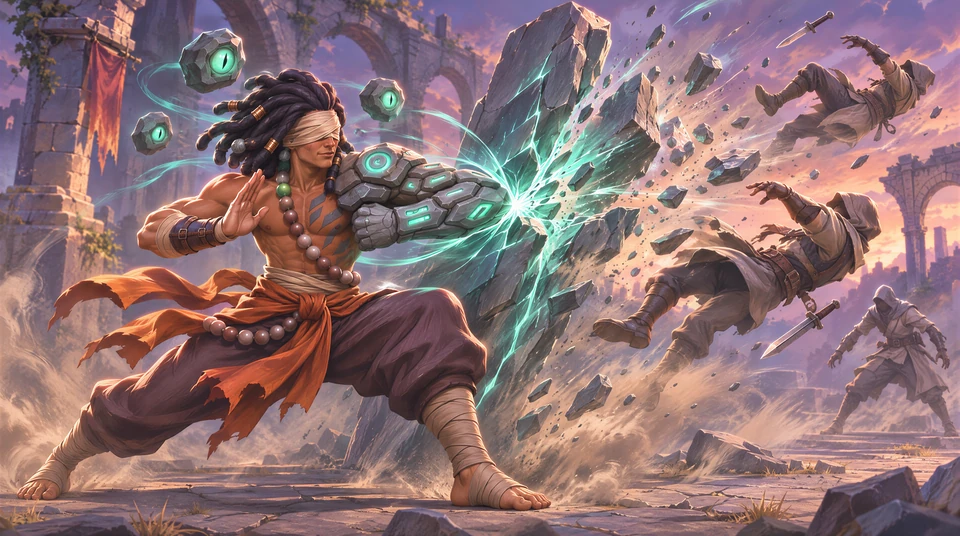
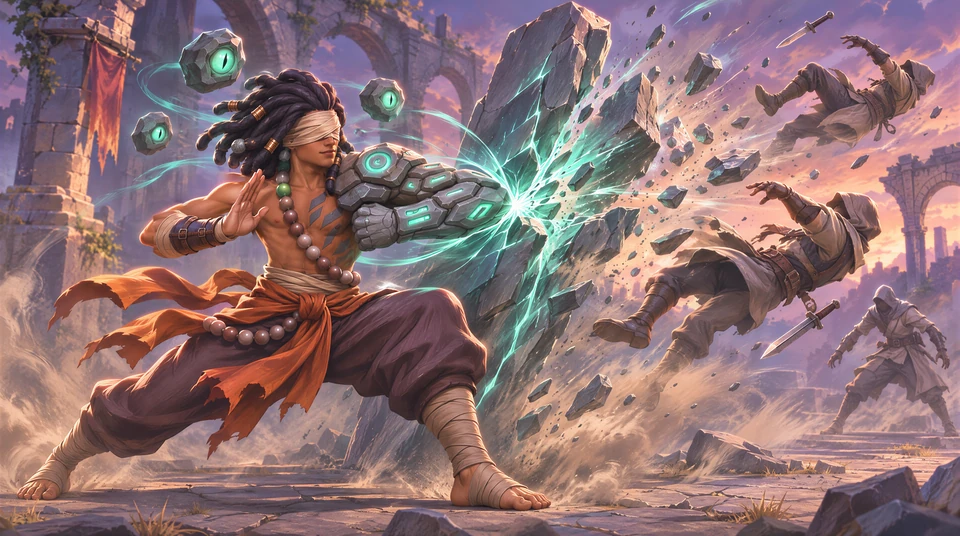
Tenzo splash: younger leaner body (owner pick A, 11-15)
Claude-Session: https://claude.ai/code/session_01Fa986kEoxoUbsf7VZzVwQa

Changed region(s): [[0.125, 0.3284, 0.25, 0.4776], [0.2812, 0.2687, 0.375, 0.3881], [0.25, 0.4179, 0.3438, 0.4776]]

diff --git a/presskit.html b/presskit.html
@@ -101,19 +101,19 @@
         </div>
         <h2>Hunter art</h2>
         <div class="pk-grid">
-          <a href="assets/img/hunters/lisette-2400.webp?v=2026-11-15e45" target="_blank"><img src="assets/img/hunters/lisette-960.webp?v=2026-11-15e45" alt="Lace splash art" loading="lazy"><span class="pk-cap">Lace</span></a>
-          <a href="assets/img/hunters/breaker-2400.webp?v=2026-11-15e45" target="_blank"><img src="assets/img/hunters/breaker-960.webp?v=2026-11-15e45" alt="Albert splash art" loading="lazy"><span class="pk-cap">Albert</span></a>
-          <a href="assets/img/hunters/vex-2400.webp?v=2026-11-15e45" target="_blank"><img src="assets/img/hunters/vex-960.webp?v=2026-11-15e45" alt="Vex splash art" loading="lazy"><span class="pk-cap">Vex</span></a>
-          <a href="assets/img/hunters/kael-2400.webp?v=2026-11-15e45" target="_blank"><img src="assets/img/hunters/kael-960.webp?v=2026-11-15e45" alt="Kael splash art" loading="lazy"><span class="pk-cap">Kael</span></a>
-          <a href="assets/img/hunters/claire-2400.webp?v=2026-11-15e45" target="_blank"><img src="assets/img/hunters/claire-960.webp?v=2026-11-15e45" alt="Neve splash art" loading="lazy"><span class="pk-cap">Neve</span></a>
-          <a href="assets/img/hunters/cinder-2400.webp?v=2026-11-15e45" target="_blank"><img src="assets/img/hunters/cinder-960.webp?v=2026-11-15e45" alt="Cinder splash art" loading="lazy"><span class="pk-cap">Cinder</span></a>
-          <a href="assets/img/hunters/tarek-2400.webp?v=2026-11-15e45" target="_blank"><img src="assets/img/hunters/tarek-960.webp?v=2026-11-15e45" alt="Tenzo splash art" loading="lazy"><span class="pk-cap">Tenzo</span></a>
-          <a href="assets/img/hunters/ryzz-2400.webp?v=2026-11-15e45" target="_blank"><img src="assets/img/hunters/ryzz-960.webp?v=2026-11-15e45" alt="Sparkle splash art" loading="lazy"><span class="pk-cap">Sparkle</span></a>
-          <a href="assets/img/hunters/grimble-2400.webp?v=2026-11-15e45" target="_blank"><img src="assets/img/hunters/grimble-960.webp?v=2026-11-15e45" alt="Grimble splash art" loading="lazy"><span class="pk-cap">Grimble</span></a>
-          <a href="assets/img/hunters/pip-2400.webp?v=2026-11-15e45" target="_blank"><img src="assets/img/hunters/pip-960.webp?v=2026-11-15e45" alt="Meeko splash art" loading="lazy"><span class="pk-cap">Meeko</span></a>
-          <a href="assets/img/hunters/sable-2400.webp?v=2026-11-15e45" target="_blank"><img src="assets/img/hunters/sable-960.webp?v=2026-11-15e45" alt="Sable splash art" loading="lazy"><span class="pk-cap">Sable</span></a>
-          <a href="assets/img/hunters/gill-2400.webp?v=2026-11-15e45" target="_blank"><img src="assets/img/hunters/gill-960.webp?v=2026-11-15e45" alt="Gill splash art" loading="lazy"><span class="pk-cap">Gill</span></a>
-          <a href="assets/img/hunters/motley-2400.webp?v=2026-11-15e45" target="_blank"><img src="assets/img/hunters/motley-960.webp?v=2026-11-15e45" alt="Motley splash art" loading="lazy"><span class="pk-cap">Motley</span></a>
+          <a href="assets/img/hunters/lisette-2400.webp?v=2026-11-15f15" target="_blank"><img src="assets/img/hunters/lisette-960.webp?v=2026-11-15f15" alt="Lace splash art" loading="lazy"><span class="pk-cap">Lace</span></a>
+          <a href="assets/img/hunters/breaker-2400.webp?v=2026-11-15f15" target="_blank"><img src="assets/img/hunters/breaker-960.webp?v=2026-11-15f15" alt="Albert splash art" loading="lazy"><span class="pk-cap">Albert</span></a>
+          <a href="assets/img/hunters/vex-2400.webp?v=2026-11-15f15" target="_blank"><img src="assets/img/hunters/vex-960.webp?v=2026-11-15f15" alt="Vex splash art" loading="lazy"><span class="pk-cap">Vex</span></a>
+          <a href="assets/img/hunters/kael-2400.webp?v=2026-11-15f15" target="_blank"><img src="assets/img/hunters/kael-960.webp?v=2026-11-15f15" alt="Kael splash art" loading="lazy"><span class="pk-cap">Kael</span></a>
+          <a href="assets/img/hunters/claire-2400.webp?v=2026-11-15f15" target="_blank"><img src="assets/img/hunters/claire-960.webp?v=2026-11-15f15" alt="Neve splash art" loading="lazy"><span class="pk-cap">Neve</span></a>
+          <a href="assets/img/hunters/cinder-2400.webp?v=2026-11-15f15" target="_blank"><img src="assets/img/hunters/cinder-960.webp?v=2026-11-15f15" alt="Cinder splash art" loading="lazy"><span class="pk-cap">Cinder</span></a>
+          <a href="assets/img/hunters/tarek-2400.webp?v=2026-11-15f15" target="_blank"><img src="assets/img/hunters/tarek-960.webp?v=2026-11-15f15" alt="Tenzo splash art" loading="lazy"><span class="pk-cap">Tenzo</span></a>
+          <a href="assets/img/hunters/ryzz-2400.webp?v=2026-11-15f15" target="_blank"><img src="assets/img/hunters/ryzz-960.webp?v=2026-11-15f15" alt="Sparkle splash art" loading="lazy"><span class="pk-cap">Sparkle</span></a>
+          <a href="assets/img/hunters/grimble-2400.webp?v=2026-11-15f15" target="_blank"><img src="assets/img/hunters/grimble-960.webp?v=2026-11-15f15" alt="Grimble splash art" loading="lazy"><span class="pk-cap">Grimble</span></a>
+          <a href="assets/img/hunters/pip-2400.webp?v=2026-11-15f15" target="_blank"><img src="assets/img/hunters/pip-960.webp?v=2026-11-15f15" alt="Meeko splash art" loading="lazy"><span class="pk-cap">Meeko</span></a>
+          <a href="assets/img/hunters/sable-2400.webp?v=2026-11-15f15" target="_blank"><img src="assets/img/hunters/sable-960.webp?v=2026-11-15f15" alt="Sable splash art" loading="lazy"><span class="pk-cap">Sable</span></a>
+          <a href="assets/img/hunters/gill-2400.webp?v=2026-11-15f15" target="_blank"><img src="assets/img/hunters/gill-960.webp?v=2026-11-15f15" alt="Gill splash art" loading="lazy"><span class="pk-cap">Gill</span></a>
+          <a href="assets/img/hunters/motley-2400.webp?v=2026-11-15f15" target="_blank"><img src="assets/img/hunters/motley-960.webp?v=2026-11-15f15" alt="Motley splash art" loading="lazy"><span class="pk-cap">Motley</span></a>
         </div>
         <h2>Boki art</h2>
         <div class="pk-grid pk-grid-boki" id="pk-boki" hidden></div>
@@ -151,7 +151,7 @@
   <div class="consent-b"><button class="btn btn-glass btn-sm" type="button" data-no>Decline</button><button class="btn btn-solid btn-sm" type="button" data-yes>Accept</button></div>
 </div>
 
-<script src="assets/site.js?v=303"></script>
+<script src="assets/site.js?v=304"></script>
 <script src="assets/signup.js?v=1"></script>
 <script src="/assets/topbar.js?v=6" defer></script>
 </body>

diff --git a/index.html b/index.html
@@ -170,7 +170,7 @@
       <button class="bk-arrow prev h-arrow" type="button" id="h-prev" aria-label="Previous Hunter"><svg viewBox="0 0 24 24" aria-hidden="true"><path d="M15 5l-7 7 7 7" fill="none" stroke="currentColor" stroke-width="2.6" stroke-linecap="round" stroke-linejoin="round"/></svg></button>
       <button class="bk-arrow next h-arrow" type="button" id="h-next" aria-label="Next Hunter"><svg viewBox="0 0 24 24" aria-hidden="true"><path d="M9 5l7 7-7 7" fill="none" stroke="currentColor" stroke-width="2.6" stroke-linecap="round" stroke-linejoin="round"/></svg></button>
       <div class="bk-count h-count"><b id="h-n">01</b> / <span>13</span></div>
-      <div class="shot"><img data-zoom id="h-art" src="assets/img/hunters/vex-1600.webp?v=2026-11-15e45" srcset="assets/img/hunters/vex-960.webp?v=2026-11-15e45 960w, assets/img/hunters/vex-1600.webp?v=2026-11-15e45 1600w, assets/img/hunters/vex-2400.webp?v=2026-11-15e45 2400w" sizes="(max-width: 720px) 260vw, (max-width: 1000px) and (orientation: portrait) 150vw, (max-width: 1280px) 100vw, 1240px" alt="Vex, the Hired Gun" loading="lazy"><button class="h-expand" type="button" id="h-expand" aria-label="View full art"><svg viewBox="0 0 24 24" fill="none" stroke="currentColor" stroke-width="2.2" stroke-linecap="round" stroke-linejoin="round" aria-hidden="true"><path d="M14 4h6v6M10 20H4v-6M20 4l-6.5 6.5M4 20l6.5-6.5"/></svg></button></div>
+      <div class="shot"><img data-zoom id="h-art" src="assets/img/hunters/vex-1600.webp?v=2026-11-15f15" srcset="assets/img/hunters/vex-960.webp?v=2026-11-15f15 960w, assets/img/hunters/vex-1600.webp?v=2026-11-15f15 1600w, assets/img/hunters/vex-2400.webp?v=2026-11-15f15 2400w" sizes="(max-width: 720px) 260vw, (max-width: 1000px) and (orientation: portrait) 150vw, (max-width: 1280px) 100vw, 1240px" alt="Vex, the Hired Gun" loading="lazy"><button class="h-expand" type="button" id="h-expand" aria-label="View full art"><svg viewBox="0 0 24 24" fill="none" stroke="currentColor" stroke-width="2.2" stroke-linecap="round" stroke-linejoin="round" aria-hidden="true"><path d="M14 4h6v6M10 20H4v-6M20 4l-6.5 6.5M4 20l6.5-6.5"/></svg></button></div>
       <div class="info" aria-live="polite">
         <div class="role" id="h-role" data-role="Gunslinger">Gunslinger</div>
         <h3 id="h-name">Vex</h3>
@@ -289,7 +289,7 @@
   <symbol id="i-play" viewBox="0 0 24 24"><path d="M7 4.5v15a1 1 0 0 0 1.5.86l12.4-7.5a1 1 0 0 0 0-1.72L8.5 3.64A1 1 0 0 0 7 4.5Z"/></symbol>
 </svg>
 
-<script src="assets/site.js?v=303"></script>
+<script src="assets/site.js?v=304"></script>
 <script src="assets/signup.js?v=1"></script>
 <script src="/assets/topbar.js?v=6" defer></script>
 </body>

diff --git a/devlog.html b/devlog.html
@@ -62,7 +62,7 @@
       <article class="dl-post" id="hunter-kits">
         <time datetime="2026-11-09">November 9, 2026</time>
         <h2>Hunter kits are on the site</h2>
-        <a class="dl-img" href="index.html#hunters"><img src="assets/img/hunters/breaker-1600.webp?v=2026-11-15e45" width="1600" height="893" alt="Albert, the Barnacle Knight" loading="lazy"></a>
+        <a class="dl-img" href="index.html#hunters"><img src="assets/img/hunters/breaker-1600.webp?v=2026-11-15f15" width="1600" height="893" alt="Albert, the Barnacle Knight" loading="lazy"></a>
         <p>Tap Abilities on any Hunter to see their full kit: weapon, passive, dash, both abilities and their ultimate.</p>
         <p>The kits come straight from the game files, so they stay current as we tune each Hunter.</p>
       </article>
@@ -90,7 +90,7 @@
   <div class="consent-b"><button class="btn btn-glass btn-sm" type="button" data-no>Decline</button><button class="btn btn-solid btn-sm" type="button" data-yes>Accept</button></div>
 </div>
 
-<script src="assets/site.js?v=303"></script>
+<script src="assets/site.js?v=304"></script>
 <script src="assets/signup.js?v=1"></script>
 <script src="/assets/topbar.js?v=6" defer></script>
 </body>

diff --git a/assets/site.js b/assets/site.js
@@ -192,7 +192,7 @@ if (heroIn && !calm) {
 
 /* ---------- Hunters: pick a Mask ---------- */
 // [id, name, title, has an up-to-date in-game model, role (from the kit's role line in the game)]
-const ART_V = "2026-11-15e45"; // bump when a Hunter splash changes
+const ART_V = "2026-11-15f15"; // bump when a Hunter splash changes
 // order 11-15 owner (r3: Grimble before Cinder): Kael Lace Albert = kingsguard trio (Cinder is not kingsguard); Sable last so Gill splits the purples (Motley/Sable)
 const HUNTERS = [
   ["vex", "Vex", "The Hired Gun", true, "Gunslinger"],

diff --git a/privacy.html b/privacy.html
@@ -99,7 +99,7 @@
   <div class="consent-b"><button class="btn btn-glass btn-sm" type="button" data-no>Decline</button><button class="btn btn-solid btn-sm" type="button" data-yes>Accept</button></div>
 </div>
 
-<script src="assets/site.js?v=303"></script>
+<script src="assets/site.js?v=304"></script>
 <script src="assets/signup.js?v=1"></script>
 <script src="/assets/topbar.js?v=6" defer></script>
 </body>
